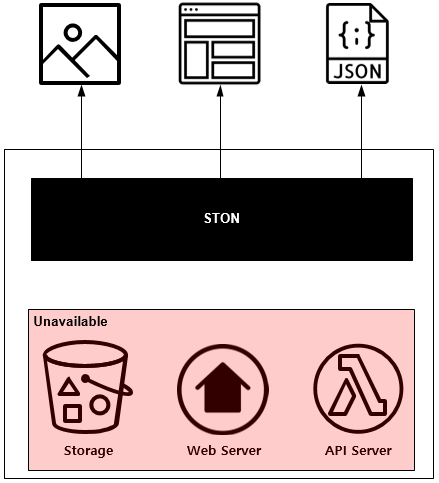
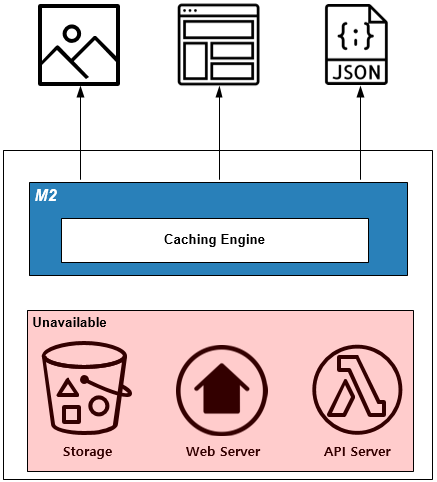
1
1

diff --git a/patterns/pattern_image.rst b/patterns/pattern_image.rst
@@ -27,13 +27,13 @@
 .. figure:: img/dgm007.png
    :align: center
 
-``STON`` 을 통해 원본 이미지를 원하는 형태로 실시간 가공하여 전달한다.
+``M2`` 를 통해 원본 이미지를 원하는 형태로 실시간 가공하여 전달한다.
 
 
 구현
 ------------------------------------
--  이미지 스토리지 앞에 이미지 변환서버 용도의 ``STON`` 을 배치한다.
--  ``STON`` 이미지툴 기능을 활성화한다. ::
+-  이미지 스토리지 앞에 이미지 변환서버 용도의 ``M2`` 를 배치한다.
+-  ``M2`` 이미지툴 기능을 활성화한다. ::
    
       # server.xml - <Server><VHostDefault><Options>
       # vhosts.xml - <Vhosts><Vhost><Options>
@@ -54,12 +54,12 @@
 
 주의점
 ------------------------------------
-``STON`` 최대 처리가능 이미지 용량(기본 10MB)을 넘거나 비정상 원본이라면 가공하지 않고 원본을 전송한다.
+``M2`` 최대 처리가능 이미지 용량(기본 10MB)을 넘거나 비정상 원본이라면 가공하지 않고 원본을 전송한다.
 
 
 기타
 ------------------------------------
-이미 사용중인 URL 패턴이 있다면 ``STON`` 커스터마이징 모듈을 통해 호환성을 확보한다.
+이미 사용중인 URL 패턴이 있다면 커스터마이징 모듈을 통해 호환성을 확보한다.
 
 
 
@@ -88,8 +88,8 @@
 
 구현
 ------------------------------------
--  이미지 스토리지 앞에 이미지 변환서버 용도의 ``STON`` 을 배치한다.
--  ``STON`` 이미지툴 기능을 활성화한다. (최대크기를 제한하지 않는다.) ::
+-  이미지 스토리지 앞에 ``M2`` 를 배치한다.
+-  ``M2`` 이미지툴 기능을 활성화한다. (최대크기를 제한하지 않는다.) ::
    
       # server.xml - <Server><VHostDefault><Options>
       # vhosts.xml - <Vhosts><Vhost><Options>
@@ -97,14 +97,14 @@
       <Dims Status="Active" Keyword="dims" MaxSourceSize="0" />
 
 
--  ``STON`` 이미지 포맷을 대상으로 URL 전처리 규칙을 추가한다. ::
+-  ``M2`` 이미지 포맷을 대상으로 URL 전처리 규칙을 추가한다. ::
 
       <URLRewrite>
          <Pattern>example.com/.*\.(jpg|png).*)</Pattern>
          <Replace>example.com/#1/dims/optimize</Replace>
       </URLRewrite>
 
--  이미지 스토리지 도메인을 ``STON`` 으로 위임한다. 
+-  이미지 스토리지 도메인을 ``M2`` 로 위임한다. 
 
 
 장점/효과
@@ -154,8 +154,8 @@
 
 구현
 ------------------------------------
--  이미지 스토리지 앞에 이미지 변환서버 용도의 ``STON`` 을 배치한다.
--  ``STON`` 이미지툴 `원본이미지 조건판단 <https://ston.readthedocs.io/ko/latest/admin/image.html#media-dims-byoriginal>`_ 을 설정한다. (최대 가로 1200px) ::
+-  이미지 스토리지 앞에 이미지 변환서버 용도의 ``M2`` 을 배치한다.
+-  ``M2`` 이미지툴 `원본이미지 조건판단 <https://ston.readthedocs.io/ko/latest/admin/image.html#media-dims-byoriginal>`_ 을 설정한다. (최대 가로 1200px) ::
    
       # server.xml - <Server><VHostDefault><Options>
       # vhosts.xml - <Vhosts><Vhost><Options>
@@ -168,7 +168,7 @@
       </Dims>
 
 
--  ``STON`` 다음과 같이 URL을 노출한다. ::
+-  ``M2`` 다음과 같이 URL을 노출한다. ::
 
        http://image.example.com/koala.jpg/dims/byoriginal/limit-1200
 
@@ -242,7 +242,7 @@
       </html>
 
 
--  ``M2/STON`` 이미지처리용 가상호스트를 생성하고 이미지툴 기능을 활성화한다. ::
+-  ``M2`` 이미지처리용 가상호스트를 생성하고 이미지툴 기능을 활성화한다. ::
    
       # vhosts.xml - <Vhosts>
 
@@ -253,7 +253,7 @@
       </Vhost>
 
 
--  ``M2/STON`` 이미지처리 경로 ``/m2/image/`` 가 ``image.example.com`` 을 찾아갈 수 있도록 `URL 전처리 <https://ston.readthedocs.io/ko/latest/admin/adv_vhost.html#url>`_ 를 구성한다. ::
+-  ``M2`` 이미지처리 경로 ``/m2/image/`` 가 ``image.example.com`` 을 찾아갈 수 있도록 `URL 전처리 <https://ston.readthedocs.io/ko/latest/admin/adv_vhost.html#url>`_ 를 구성한다. ::
    
       # vhosts.xml
 

diff --git a/patterns/pattern_video.rst b/patterns/pattern_video.rst
@@ -20,7 +20,7 @@
 
 솔루션/패턴 설명
 ------------------------------------
-``STON`` 의 `MP4HLS <https://ston.readthedocs.io/ko/latest/admin/video.html#mp4-hls>`_ 기능을 이용해 실시간으로 MP4영상을 HLS로 가공하여 전송한다.
+``M2`` 의 `MP4HLS <https://ston.readthedocs.io/ko/latest/admin/video.html#mp4-hls>`_ 기능을 이용해 실시간으로 MP4영상을 HLS로 가공하여 전송한다.
 
 .. figure:: img/dgm011.png
    :align: center
@@ -28,8 +28,8 @@
 
 구현
 ------------------------------------
--  동영상 스토리지/서비스 앞에 ``STON`` 을 배치한다.
--  ``STON`` MP4HLS 기능을 활성화한다. ::
+-  동영상 스토리지/서비스 앞에 ``M2`` 를 배치한다.
+-  MP4HLS 기능을 활성화한다. ::
    
       # vhosts.xml - <Vhosts><Vhost><Media>
 
@@ -58,7 +58,7 @@
 
 기타
 ------------------------------------
-사용자가 동영상 전체를 시청하는 빈도가 낮다면 ``STON``  - `Range요청 <https://ston.readthedocs.io/ko/latest/admin/origin.html#range>`_ 기능을 이용해 스토리지/원본서버의 대역폭 소비를 최소화한다.
+사용자가 동영상 전체를 시청하는 빈도가 낮다면 `Range요청 <https://ston.readthedocs.io/ko/latest/admin/origin.html#range>`_ 기능을 이용해 스토리지/원본서버의 대역폭 소비를 최소화한다.
 
 
 
@@ -73,7 +73,7 @@
 
 솔루션/패턴 설명
 ------------------------------------
-``STON`` 의 `Multi-Trimming <https://ston.readthedocs.io/ko/latest/admin/video.html#multi-trimming>`_ 기능을 이용해 실시간으로 MP4영상을 편집한다.
+`Multi-Trimming <https://ston.readthedocs.io/ko/latest/admin/video.html#multi-trimming>`_ 기능을 이용해 실시간으로 MP4영상을 편집한다.
 
 .. figure:: img/dgm012.png
    :align: center
@@ -81,8 +81,8 @@
 
 구현
 ------------------------------------
--  동영상 스토리지/서비스 앞에 ``STON`` 을 배치한다.
--  ``STON`` `Multi-Trimming <https://ston.readthedocs.io/ko/latest/admin/video.html#multi-trimming>`_ 기능을 활성화한다. ::
+-  동영상 스토리지/서비스 앞에 ``M2`` 를 배치한다.
+-  `Multi-Trimming <https://ston.readthedocs.io/ko/latest/admin/video.html#multi-trimming>`_ 기능을 활성화한다. ::
    
       # server.xml - <Server><VHostDefault><Media>
       # vhosts.xml - <Vhosts><Vhost><Media>
@@ -103,7 +103,7 @@
 
 주의점
 ------------------------------------
-`ngx_http_mp4_module <http://nginx.org/en/docs/http/ngx_http_mp4_module.html>`_ 이나 `Mod-H264-Streaming-Testing-Version2 <http://h264.code-shop.com/trac/wiki/Mod-H264-Streaming-Testing-Version2>`_ 같은 사용방식을 원한다면 ``STON`` - `Trimming <https://ston.readthedocs.io/ko/latest/admin/video.html#trimming>`_ 을 사용한다.
+`ngx_http_mp4_module <http://nginx.org/en/docs/http/ngx_http_mp4_module.html>`_ 이나 `Mod-H264-Streaming-Testing-Version2 <http://h264.code-shop.com/trac/wiki/Mod-H264-Streaming-Testing-Version2>`_ 같은 사용방식을 원한다면 `Trimming <https://ston.readthedocs.io/ko/latest/admin/video.html#trimming>`_ 을 사용한다.
 
 
 기타

diff --git a/patterns/pattern_traffic.rst b/patterns/pattern_traffic.rst
@@ -29,8 +29,8 @@
 
 구현
 ------------------------------------
--  보호하고 싶은 서비스 앞에 ``STON`` 을 배치한다. (=HTTP 통신이 가능하다.)
--  ``STON`` 서비스(=가상호스트)별로 적절한 TTL을 설정한다. ::
+-  보호하고 싶은 서비스 앞에 ``M2`` 를 배치한다. (=HTTP 통신이 가능하다.)
+-  서비스(=가상호스트)별로 적절한 TTL을 설정한다. ::
    
       # server.xml - <Server><VHostDefault><Options>
       # vhosts.xml - <Vhosts><Vhost><Options>
@@ -43,7 +43,7 @@
           <Res5xx>5</Res5xx>
       </TTL>
 
--  ``STON`` 장애 상황에서 원본 오동작으로 ``4xx`` , ``5xx`` 응답이 올 수 있다. 
+-  장애 상황에서 원본 오동작으로 ``4xx`` , ``5xx`` 응답이 올 수 있다. 
    콘텐츠가 캐시에서 사라지지 않도록 `비정상 TTL연장 <https://ston.readthedocs.io/ko/latest/admin/caching_policy.html#id4>`_ 기능을 활성화시킨다. ::
 
       # server.xml - <Server><VHostDefault><Options>
@@ -55,7 +55,7 @@
 
 .. note::
 
-   ``STON`` 은 콘텐츠 갱신시점에 원본서버와 연결이 안되거나 전송지연이 발생할 경우 자동으로 TTL을 연장한다.
+   ``M2`` 는 콘텐츠 갱신시점에 원본서버와 연결이 안되거나 전송지연이 발생할 경우 자동으로 TTL을 연장한다.
 
 
 장점/효과
@@ -88,7 +88,7 @@
 
 솔루션/패턴 설명
 ------------------------------------
-``STON`` 은 동일한 1,000건의 요청에 대해 최초 1번만 압축하고 TTL 시간동안은 압축된 결과물을 전송한다.
+``M2`` 는 동일한 1,000건의 요청에 대해 최초 1번만 압축하고 TTL 시간동안은 압축된 결과물을 전송한다.
 
 .. figure:: img/dgm014.png
    :align: center
@@ -96,15 +96,15 @@
 
 구현
 ------------------------------------
--  서비스 앞에 ``STON`` 을 배치한다. (=HTTP 통신이 가능하다.)
--  ``STON`` 압축기능을 활성화한다. ::
+-  서비스 앞에 ``M2`` 를 배치한다. (=HTTP 통신이 가능하다.)
+-  압축기능을 활성화한다. ::
    
       # server.xml - <Server><VHostDefault><Options>
       # vhosts.xml - <Vhosts><Vhost><Options>
 
       <Compression Method="gzip" Level="6" SourceSize="2-2048">ON</Compression>
 
--  ``STON`` 압축대상을 지정한다. ::
+-  압축대상을 지정한다. ::
 
       # /svc/www.example.com/compression.txt
       # 구분자는 콤마( , ) 이다.

diff --git a/patterns/pattern_infra.rst b/patterns/pattern_infra.rst
@@ -21,7 +21,7 @@
 
 솔루션/패턴 설명
 ------------------------------------
-``STON`` 의 `가상호스트 링크 <https://ston.readthedocs.io/ko/latest/admin/adv_vhost.html#adv-vhost-link>`_ 기능을 이용해 물리적으로 분리된 엔드포인트를 연결한다.
+``M2`` 의 `가상호스트 링크 <https://ston.readthedocs.io/ko/latest/admin/adv_vhost.html#adv-vhost-link>`_ 기능을 이용해 물리적으로 분리된 엔드포인트를 연결한다.
 
 .. figure:: img/dgm008.png
    :align: center
@@ -29,8 +29,8 @@
 
 구현
 ------------------------------------
--  메인 스토리지/서비스 앞에 ``STON`` 을 배치한다.
--  ``STON`` 개별 가상호스트를 생성하고 가상호스트 링크이미지툴 기능을 활성화한다. ::
+-  메인 스토리지/서비스 앞에 ``M2`` 를 배치한다.
+-  개별 가상호스트를 생성하고 가상호스트 링크이미지툴 기능을 활성화한다. ::
    
       # vhosts.xml - <Vhosts>
 
@@ -195,7 +195,7 @@
 
 주의점
 ------------------------------------
-``STON`` 으로 구현한다면 `블럭캐싱과 데이터 무결성 <https://ston.readthedocs.io/ko/latest/admin/enterprise.html#enterprise-block>`_ 를 참고한다.
+`블럭캐싱과 데이터 무결성 <https://ston.readthedocs.io/ko/latest/admin/enterprise.html#enterprise-block>`_ 를 참고한다.
 
 
 기타

diff --git a/patterns/pattern_webpage.rst b/patterns/pattern_webpage.rst
@@ -150,7 +150,7 @@
       {{ model.__raw | toHttps('/item-detail/mixed') }}
 
 
--  ``M2/STON`` 혼합 콘텐츠 게이트웨이용 가상호스트를 생성하고 ``ByClient`` 기능을 활성화한다. ::
+-  ``M2`` 혼합 콘텐츠 게이트웨이용 가상호스트를 생성하고 ``ByClient`` 기능을 활성화한다. ::
    
       # vhosts.xml - <Vhosts>
 
@@ -159,7 +159,7 @@
        </Vhost>
 
 
--  ``M2/STON`` 혼합 콘텐츠 리소스는 ``www.example.com/item-detail/mixed/..`` 로 제공된다.
+-  ``M2`` 혼합 콘텐츠 리소스는 ``www.example.com/item-detail/mixed/..`` 로 제공된다.
    해당 URL이 ``mixed.example.com`` 에서 처리될 수 있도록 URL 전처리를 규칙을 추가한다. ::
 
       <URLRewrite AccessLog="Replace">

diff --git a/patterns/pattern_security.rst b/patterns/pattern_security.rst
@@ -31,8 +31,8 @@
 
 구현
 ------------------------------------
--  스토리지 앞에 ``STON`` 를 배치한다. (=HTTP 통신이 가능하다.)
--  ``STON`` On the fly DRM 기능을 활성화한다. ::
+-  스토리지 앞에 ``M2`` 를 배치한다. (=HTTP 통신이 가능하다.)
+-  On the fly DRM 기능을 활성화한다. ::
    
       $ server.xml - <Server><VHostDefault><Options>
       $ vhosts.xml - <Vhosts><Vhost><Options>

diff --git a/index.rst b/index.rst
@@ -8,8 +8,7 @@ Contents Service Patterns
 :저자: WineSOFT 아키텍트팀
 
 
-1부. 패턴
-=============================
+``M2`` `파이프라인 플랫폼 <https://m2-kr.readthedocs.io/ko/latest/guide/intro.html>`_ 구축 사례를 통해 On the fly 유스케이스를 살펴본다.
 
 .. toctree::
    :maxdepth: 2
